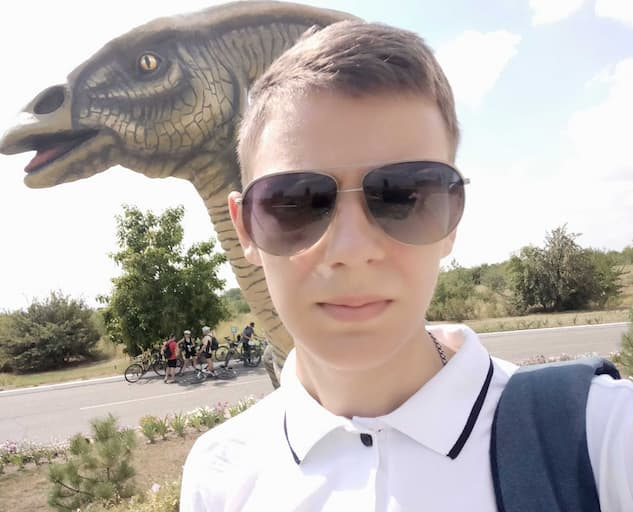
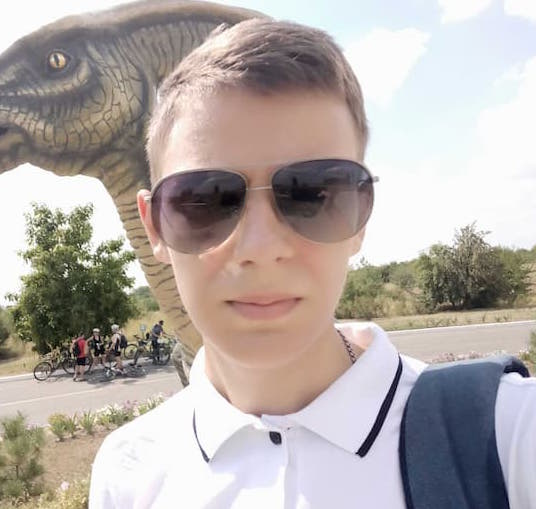
добавила фото студента
-фото Димы М.

diff --git a/src/partials/footer_modal_students.html b/src/partials/footer_modal_students.html
@@ -10,7 +10,7 @@
         <li class="students-list__item">
           <!-- <img src="https://blog.123rf.com/wp-content/uploads/2016/10/Caricature8f.jpg" class="students-list__item__image"/> -->
           <img
-            src="https://raw.githubusercontent.com/od-frontender/filmoteka/main/src/images/footer_modal_students/Anatoliy%20Buriak.png"
+            src="https://raw.githubusercontent.com/od-frontender/filmoteka/main/src/images/footer_modal_students/Anatoliy%20Buriak.jpg"
             class="students-list__item__image"
           />
           <div class="students-list__item__descr">
@@ -105,7 +105,7 @@
 
         <li class="students-list__item">
           <img
-            src="https://blog.123rf.com/wp-content/uploads/2016/10/Caricature8f.jpg"
+            src="https://raw.githubusercontent.com/od-frontender/filmoteka/main/src/images/footer_modal_students/Dima%20Muzalevskiy.jpg"
             class="students-list__item__image"
           />
           <div class="students-list__item__descr">

diff --git a/src/sass/base/_reset-styles.scss b/src/sass/base/_reset-styles.scss
@@ -38,6 +38,9 @@ a {
 
 .link {
   text-decoration: none;
+  &:visited{
+    color: inherit;
+  }
 }
 
 .list {
